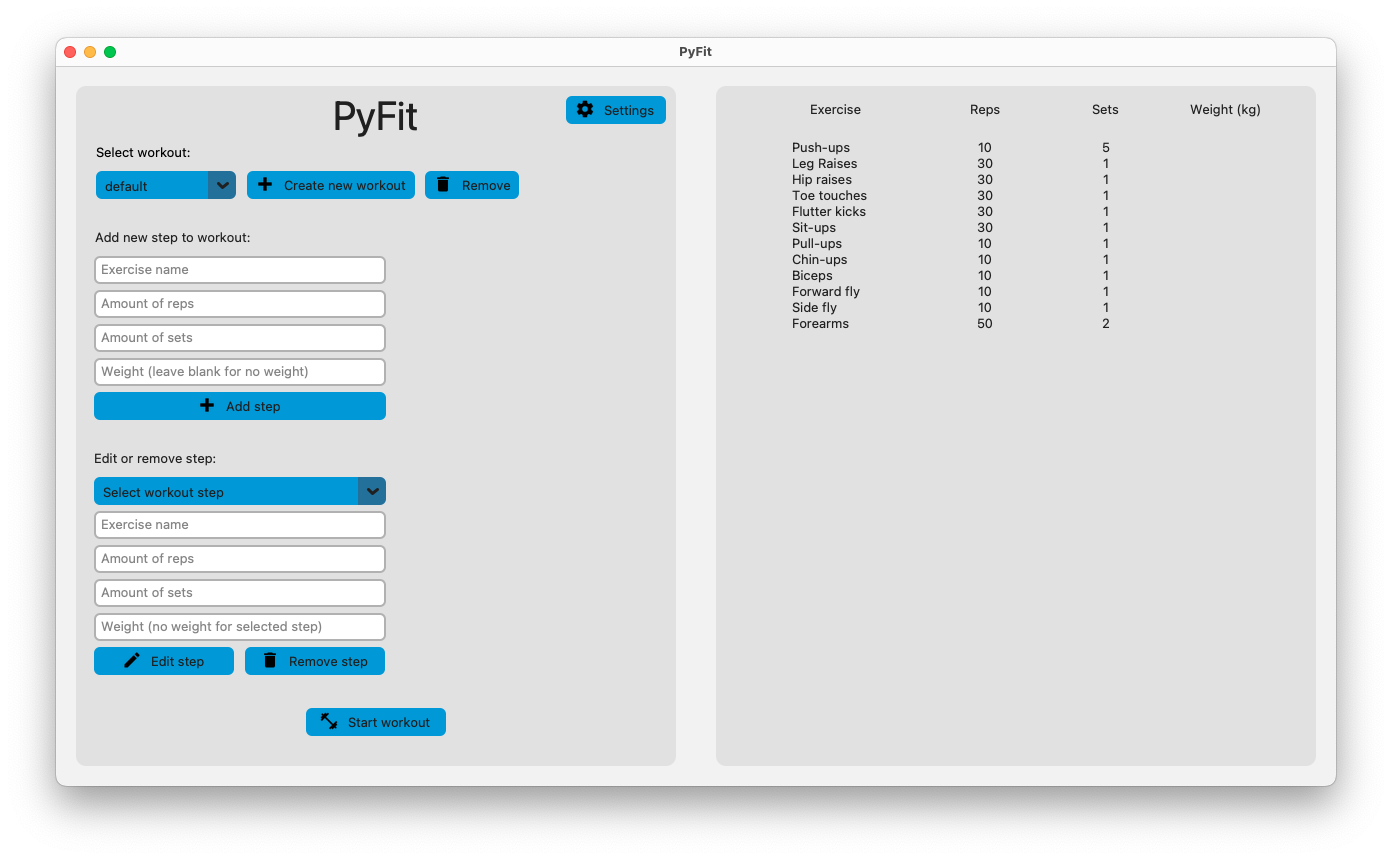
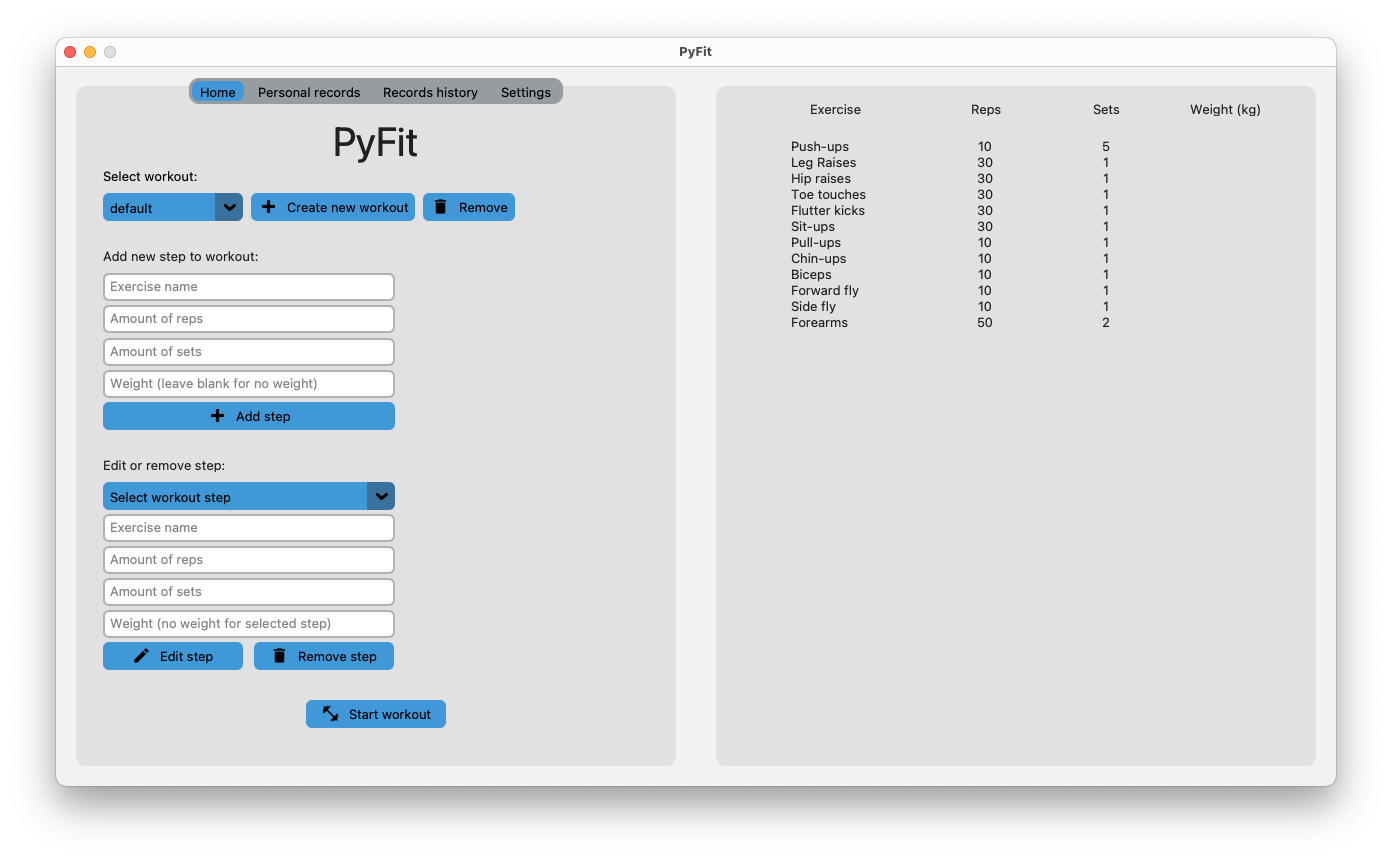
Add new screenshots

diff --git a/README.md b/README.md
@@ -13,6 +13,8 @@ On the rest screen, you can see what the next exercise will be.
 - Automatic rest screen between each step when doing a workout
 - Progress bar on workout screen
 - Statistics after finishing workout (total rep count and total volume)
+- Personal records
+- History graph of personal records to track improvements
 - Dark theme and Light theme
 - Settings
     - Choose between Dark theme, Light theme or follow system theme
@@ -29,6 +31,18 @@ On the rest screen, you can see what the next exercise will be.
 | Dark theme                 | Light theme                |
 |----------------------------|----------------------------|
 | ![](media/Screenshot1.png) | ![](media/Screenshot2.png) |
+
+<div align="center">
+    <img src="media/Screenshot7.png" height="500" alt=""/>
+</div>
+
+<div align="center">
+    <img src="media/Screenshot8.png" height="500" alt=""/>
+</div>
+
+<div align="center">
+    <img src="media/Screenshot9.png" height="500" alt=""/>
+</div>
 
 <div align="center">
     <img src="media/Screenshot3.png" height="500" alt=""/>
